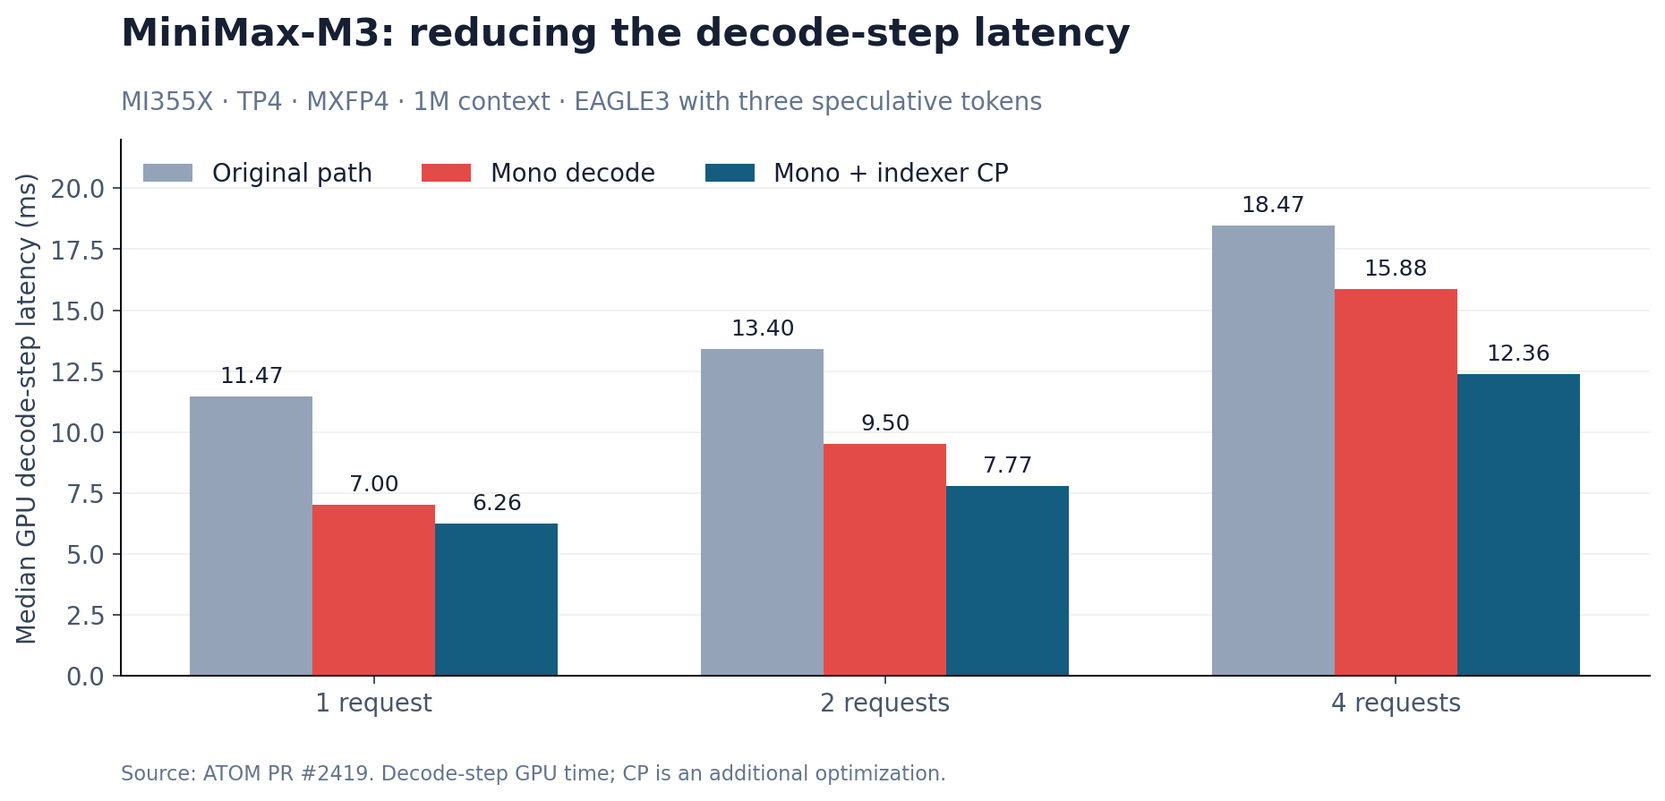
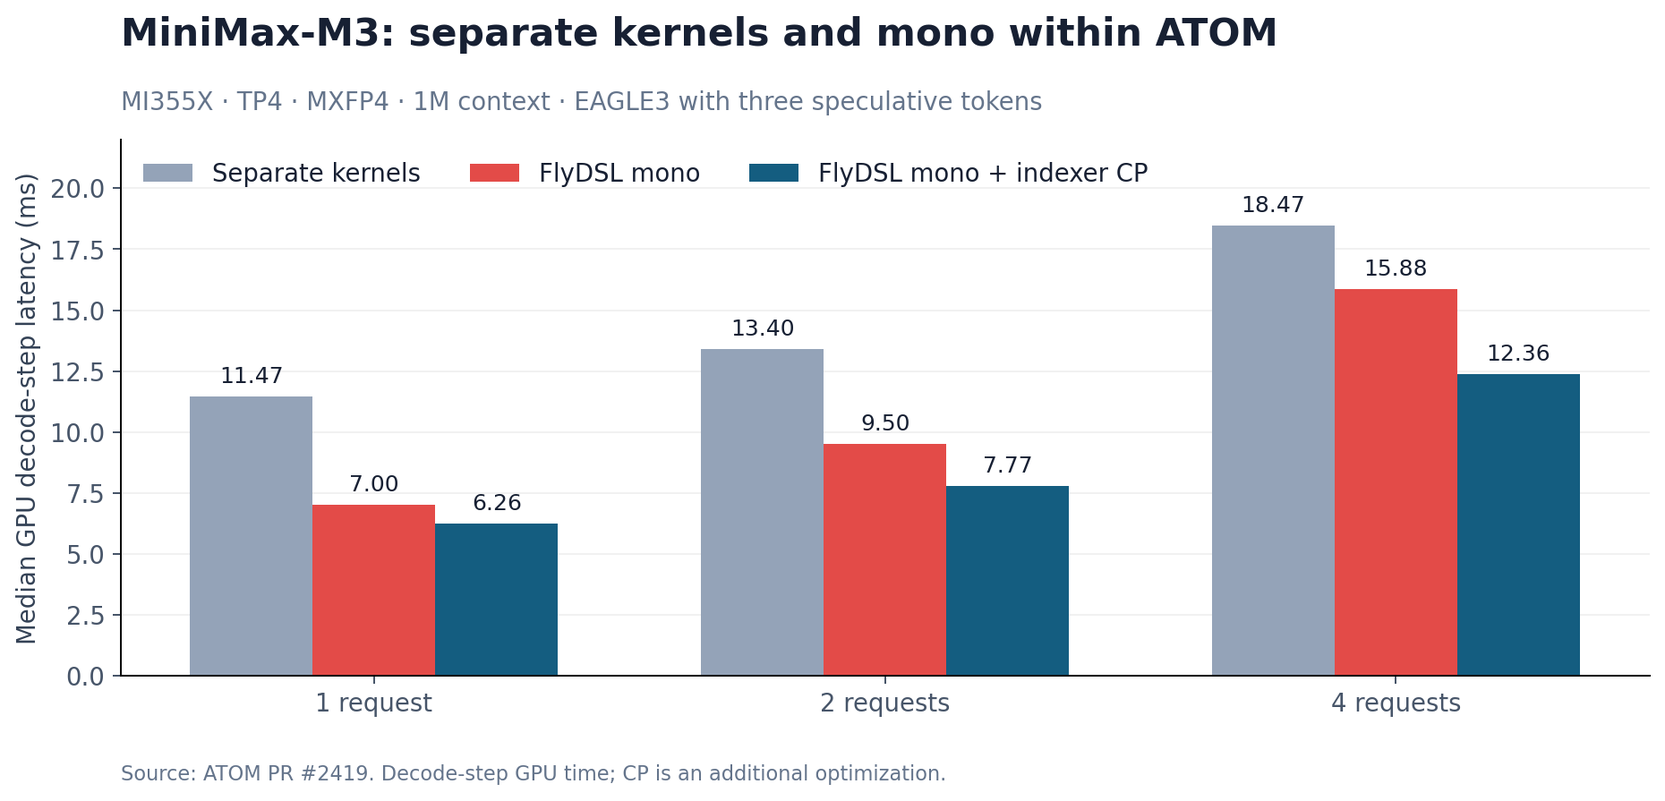
Focus ATOM mono blog on fusion and clarify separate-kernel baselines

Changed region(s): [[0.1247, 0.181, 0.686, 0.2413], [0.2495, 0.0, 0.7796, 0.0603]]

diff --git a/blogs/software-tools-optimization/flydsl-atom-mono-kernels/README.md b/blogs/software-tools-optimization/flydsl-atom-mono-kernels/README.md
@@ -7,7 +7,7 @@ thumbnail: 'mono-overlap.png'
 tags: AI/ML, Performance
 category: Software tools & optimizations
 target_audience: GPU kernel developers and LLM inference engineers
-key_value_propositions: Explains how mono kernels reduce launch overhead in low-concurrency decode, with M3 and DeepSeek-V4.1 examples, measured gains, and ATOM deployment steps.
+key_value_propositions: Explains how mono kernels reduce launch overhead in low-concurrency decode, with M3 and DeepSeek-V4.1 examples, measured gains, and ATOM integration.
 language: English
 myst:
     html_meta:
@@ -29,7 +29,7 @@ Interactive chat and coding assistants need to respond quickly even when only on
 
 At low concurrency, many of these kernels do only a small amount of work, but each still has to be launched and coordinated with the next one. Repeating that sequence across layers and decode steps can make kernel launch overhead a substantial part of latency. **A fast decode path needs to reduce the overhead between these small operations.**
 
-**A mono kernel puts a layer's connected operations into one GPU kernel launch.** It can also load weights before they are needed and combine GPU-to-GPU reductions with the computations around them. This article explains how [FlyDSL](https://github.com/ROCm/FlyDSL) and [ATOM](https://github.com/ROCm/ATOM) do this for MiniMax-M3 on AMD Instinct MI355X, how the approach extends to DeepSeek-V4.1, and what the measurements show.
+**A mono kernel puts a layer's connected operations into one GPU kernel launch.** It can also load weights before they are needed and combine GPU-to-GPU reductions with the computations around them. This article explains **[ATOM](https://github.com/ROCm/ATOM)'s mono-kernel path, implemented with [FlyDSL](https://github.com/ROCm/FlyDSL)**: how it fuses MiniMax-M3 decode on AMD Instinct MI355X, how the approach extends to DeepSeek-V4.1, and how it improves on ATOM's separate-kernel path.
 
 ## Why many small kernels slow down decode
 
@@ -57,13 +57,13 @@ There are three main benefits:
 
 *Figure 1. Mono combines stages in one launch, starts independent loads early, and overlaps reductions with computation. Bars show execution order, not measured durations.*
 
-**FlyDSL provides the tools to write this kernel; ATOM decides when and how to run it.** FlyDSL is a Python domain-specific language for GPU kernels. The Python code controls tensor layouts, matrix instructions, memory loads, and synchronization, and an MLIR compiler pipeline turns it into GPU code. ATOM (AiTer Optimized Model) loads the model, manages requests and caches, and selects the kernel variant for the current decode step. It also handles graph replay, speculative decoding, and execution across GPUs. [2], [4]
+**ATOM uses FlyDSL to implement its mono kernels.** FlyDSL is a Python domain-specific language for GPU kernels. The Python code controls tensor layouts, matrix instructions, memory loads, and synchronization, and an MLIR compiler pipeline turns it into GPU code. ATOM (AiTer Optimized Model) loads the model, manages requests and caches, and selects the kernel variant for the current decode step. It also handles graph replay, speculative decoding, and execution across GPUs. [2], [4]
 
 The design is inspired by the **TileRT MonoKernel work**. FlyDSL #1204 cites the TileRT InferenceMAX/InferenceX submission at [snapshot `8ac9834`](https://github.com/SemiAnalysisAI/InferenceX/tree/8ac98344b038a3f2da20a565fe9b974772a67ef9), associated with [#3389](https://github.com/SemiAnalysisAI/InferenceX/pull/3389). FlyDSL's [kernels/monokernel/](https://github.com/ROCm/FlyDSL/tree/31f389b3838d83f82e5bd9ccf646076243e24e18/kernels/monokernel) supplies reusable components such as gfx950 GEMM, MXFP8 linear, and tagged symmetric AllReduce. ATOM's shared `atom/mono` framework connects these components to each model. [5], [6], [10]
 
 ## MiniMax-M3: one launch for a sparse decoder layer
 
-M3's [mono kernel](https://github.com/ROCm/ATOM/blob/2b9f3412e466fd4172a4a621fe9215a1041130c1/atom/models/minimax_m3/mono/kernels/post_attn.py) covers the complete sparse-layer path, including attention and mixture-of-experts (MoE) AllReduce, in **one launch per tensor-parallel (TP) rank**, with one rank on each participating GPU. The first three dense layers use the original modules. The kernel specializes for 1–16 token rows; in the EAGLE3 configuration used here, three speculative tokens produce four target-model rows per request. [1], [3]
+M3's [mono kernel](https://github.com/ROCm/ATOM/blob/2b9f3412e466fd4172a4a621fe9215a1041130c1/atom/models/minimax_m3/mono/kernels/post_attn.py) covers the complete sparse-layer path, including attention and mixture-of-experts (MoE) AllReduce, in **one launch per tensor-parallel (TP) rank**, with one rank on each participating GPU. The first three dense layers use ATOM's separate-kernel modules. The kernel specializes for 1–16 token rows; in the EAGLE3 configuration used here, three speculative tokens produce four target-model rows per request. [1], [3]
 
 ### Which operations are fused?
 
@@ -85,7 +85,7 @@ All of these operations stay in the same launch. To make that useful, M3 needs t
 
 M3 launches **256 workgroups of 512 threads**, targeting one active workgroup per MI355X compute unit. Each block runs its assigned tasks in order. A block waiting for data can rely on the producing blocks remaining active. This avoids stopping the entire grid at every stage boundary, although threads within a workgroup still use local barriers. [3]
 
-Task `t` of a stage runs on block `(stage_base + t) % 256`. At four rows, split-attention tasks occupy blocks 0–31, merge tasks occupy 32–35, and output-projection tasks occupy 36–227. The router starts at block 228 and wraps to block 35. Blocks that performed attention can therefore take on routing work later in the same launch. [11]
+Blocks that perform attention can take on routing work later in the same launch. FlyDSL assigns those jobs before execution, so the same group of blocks carries the layer forward without a new launch for each stage. [11]
 
 **FlyDSL generates a kernel variant for each row count from 1 to 16.** Python code assigns tasks to blocks and lays out their LDS storage. At four rows, routed up/gate tasks are grouped by token so a block can reuse one staged activation. At wider shapes, tokens sharing an expert become matrix columns, reusing that expert's weights. The row count determines the layout before the kernel runs. Actual token positions and selected experts are supplied at runtime. [3], [11]
 
@@ -93,37 +93,13 @@ Task `t` of a stage runs on block `(stage_base + t) % 256`. At four rows, split-
 
 The weights for a later stage can be loaded before that stage receives its input. In the narrow MoE path, a block starts loading its down-projection weights while its up/gate computation runs. Shared-expert tasks are assigned according to each block's routed-work load; where that load is balanced, shared-expert computation runs while the first routed task's weights are in flight. [3], [11]
 
-FlyDSL also lets the layout change with the schedule. This excerpt from M3's `layout.py` selects the wider expert path and pads its activation and scale rows: [11]
-
-```python
-WIDE_FROM = 5
-
-def wide_moe(tokens: int) -> bool:
-    return tokens >= WIDE_FROM
-
-XN8_ROW = HIDDEN // 4 + 4
-XSC_ROW = HIDDEN // 32 + 4
-```
-
-At S=16, where S is the number of token rows, the unpadded pitches cause **16-way LDS bank conflicts costing about 3 µs per up/gate task**, according to the source comment. Adding four words, or 16 bytes, to each pitch spreads gathers across banks and removes that source of stalls. This is a small Python layout change that removes a measured stall in the fused expert computation. [11]
+FlyDSL also controls how activations and scales are laid out in LDS. At 16 token rows, the unpadded layout causes **16-way LDS bank conflicts costing about 3 µs per up/gate task**, according to the source comment. Adding 16 bytes of padding to each row spreads accesses across memory banks and removes that source of stalls. The [M3 layout code](https://github.com/ROCm/ATOM/blob/2b9f3412e466fd4172a4a621fe9215a1041130c1/atom/models/minimax_m3/mono/layout.py) makes this adjustment alongside the expert task assignments. [11]
 
 ### Tell each block when its input is ready
 
-After loading its weights, a block still needs the previous stage's output. M3 uses mailboxes in GPU memory: each payload word is paired with an epoch tag identifying the current step and layer. The block checks those tags until its input is ready. This is the poll loop from `common.py`, with only the docstring omitted: [7]
+After loading its weights, a block still needs the previous stage's output. M3 uses mailboxes in GPU memory: each value has a tag identifying its decode step and layer. A block waits until the tags show that its input is ready. Advancing the step counter prevents graph replay from mistaking an old result for a new one. Mailbox memory accesses make writes visible to the blocks or peer GPUs that need them. The [mailbox implementation](https://github.com/ROCm/ATOM/blob/2b9f3412e466fd4172a4a621fe9215a1041130c1/atom/models/minimax_m3/mono/kernels/common.py) supplies this synchronization inside the fused kernel. [3], [7]
 
-```python
-@traced
-def _spin(load_all, pending):
-    v = load_all()
-    while pending(v):
-        rocdl.s_sleep(1)
-        v = load_all()
-    return v
-```
-
-The epoch is `decode_step × 128 + layer_id + 1`. A device counter advances between steps, so graph replay cannot mistake an old result for a new one. Mailboxes within one GPU use device-scope memory accesses; mailboxes shared across GPUs use system-scope accesses. The scope determines where the writes must become visible. [3], [7]
-
-The mailbox layout also affects performance. M3 replicates the router's score mailbox eight ways, with block `b` polling copy `b % 8`. This spreads **240 expert blocks** across copies of a 1 KB payload. The source records **K4 on four GPUs improving from 37.3 to 35.9 µs** with the eight copies. [11] FlyDSL's wave operations, including `fx.rocdl.readlane`, `fx.rocdl.ballot`, `fx.ctpop`, and shared `permlane_swap` and `memrealtime` helpers, support the reductions, selection, and instrumentation around these handoffs. [1], [7]
+The mailbox layout also affects performance. M3 makes eight copies of the router's 1 KB score payload and spreads **240 expert blocks** across those copies. This reduces contention when many blocks wait for routing results at once. The source records **K4 on four GPUs improving from 37.3 to 35.9 µs** with the eight copies. [11]
 
 ### Combine AllReduce with the computations around it
 
@@ -183,13 +159,13 @@ In both models, an output can pass to its next computation inside the same kerne
 
 ### Scope and methodology
 
-The measurements below come from the linked implementation PRs. Each comparison retains its baseline and configuration. GPU decode-step time, layer-harness latency, and serving throughput measure different scopes; M3's headline combines mono and indexer CP. Kimi-K3 and GLM-5.2 results from the open ATOM PR #2435 remain **in progress**.[^benchmark-data]
+The serving comparisons measure **ATOM's separate-kernel path versus its FlyDSL mono-kernel path**. GLM-5 is measured separately in a layer harness against ATOM's separate-kernel implementation. GPU decode-step time, layer latency, and serving throughput measure different scopes; M3's 1.83× result combines mono and indexer CP. Kimi-K3 and GLM-5.2 results from the open ATOM PR #2435 remain **in progress**.[^benchmark-data]
 
 ### M3: decode latency with mono and indexer CP
 
-The server measurements use MI355X, TP4, MiniMax-M3-MXFP4, a 1M context, and EAGLE3 with three speculative tokens. Batches of 1, 2, and 4 produce 4, 8, and 16 target-model rows before graph padding. Latencies are median GPU decode-step times in milliseconds; gains list mono / mono + CP speedups relative to the original path. [1]
+The server measurements use MI355X, TP4, MiniMax-M3-MXFP4, a 1M context, and EAGLE3 with three speculative tokens. Batches of 1, 2, and 4 produce 4, 8, and 16 target-model rows before graph padding. Latencies are median GPU decode-step times in milliseconds; gains list mono / mono + CP speedups relative to ATOM's separate-kernel path. In the table, **Separate** is ATOM with separate kernels and **Mono** is ATOM with FlyDSL mono kernels. [1]
 
-| Batch | Original | Mono | Mono + CP | Gain |
+| Batch | Separate | Mono | Mono + CP | Gain |
 | ---: | ---: | ---: | ---: | ---: |
 | 1 | 11.47 | 7.00 | 6.26 | 1.64× / 1.83× |
 | 2 | 13.40 | 9.50 | 7.77 | 1.41× / 1.72× |
@@ -197,7 +173,7 @@ The server measurements use MI355X, TP4, MiniMax-M3-MXFP4, a 1M context, and EAG
 
 ![MiniMax-M3 decode-step latency comparison](images/minimax-decode-step.png)
 
-*Figure 5. M3 decode-step latency; lower is better. The [decode-step CSV](data/minimax-decode-step.csv) retains the reported values.*
+*Figure 5. M3 decode-step latency within ATOM: separate kernels, FlyDSL mono kernels, and mono with indexer CP. Lower is better. The [decode-step CSV](data/minimax-decode-step.csv) retains the reported values.*
 
 At batch one, mono saves **4.47 ms** and CP saves a further **0.74 ms**. At batch four, mono saves **2.59 ms** and CP saves another **3.52 ms**. With more rows, each launch processes more useful work, so its overhead is spread across that work. This is consistent with the smaller mono speedup at batch four. Weight loads, expert computation, and index scoring then account for more of the work; grouping tokens by expert and splitting the index scan across GPUs target those costs.
 
@@ -205,14 +181,12 @@ The CP layer harness isolates the indexer change: at 1M context, 16 rows, and fo
 
 ### One-launch layer results: GLM-5
 
-[GLM-5's full-indexer mono kernel](https://github.com/ROCm/FlyDSL/blob/31f389b3838d83f82e5bd9ccf646076243e24e18/kernels/monokernel/glm/kernel.py) provides another complete-layer example: indexer, sparse MLA, router, MXFP4 MoE, TP reductions, and residual update in **one launch per rank**. FlyDSL #1204 reports the following on MI355X TP8 at position 3000, against ATOM latest: [5]
+[GLM-5's full-indexer mono kernel](https://github.com/ROCm/FlyDSL/blob/31f389b3838d83f82e5bd9ccf646076243e24e18/kernels/monokernel/glm/kernel.py) provides another complete-layer example: indexer, sparse MLA, router, MXFP4 MoE, TP reductions, and residual update in **one launch per rank**. FlyDSL #1204 reports the following on MI355X TP8 at position 3000, using ATOM's separate-kernel layer implementation as the baseline: [5]
 
-| Token rows | Mono launches per layer and rank | Layer latency, ATOM → mono (µs) | Speedup |
+| Token rows | Mono launches per layer and rank | Layer latency, separate → mono (µs) | Speedup |
 | ---: | ---: | ---: | ---: |
 | 4 | **1** | 205.8–213.7 → **78.4–78.6** | **2.62–2.73×** |
 | 8 | **1** | 223.4 → **118.2–118.3** | **1.89×** |
-
-These measurements cover a full layer with arithmetic and reductions fused into one launch. FlyDSL also improves staged execution: the same PR's Kimi-K3 MLA and KDA paths are **1.55–1.99× faster than ATOM** across S=4/8, including ordered true-MTP KDA updates. Its staged true-MTP KDA path outperforms its one-launch version, so the best set of operations to fuse depends on the model. [5]
 
 ### Results across models
 
@@ -220,10 +194,10 @@ The reported improvements extend to several models, with different groups of ope
 
 | Model and mono path | Comparison and configuration | Reported benefit |
 | --- | --- | --- |
-| **MiniMax-M3**: fused sparse layer | Original path → mono; MI355X, TP4, MXFP4, 1M context, batch 1, EAGLE3 with three speculative tokens | **1.64× faster GPU decode step**, or **1.83× with indexer CP**. [1] |
-| **Kimi-K3**: fused MoE tail | Reference → mono; MI355X, TP8, concurrency 1, `DCP1`, DSpark7, graph mode | Output throughput **169.15 → 197.92 tokens/s (+17.01%)**; time per output token (TPOT) **5.55–5.60 → 4.70 ms**. [8] |
-| **GLM-5.2**: decoder-layer mono | Production → mono; MI355X, TP4, MXFP4, FP8 KV, MTP4, graph mode | At concurrency 1, Agentic throughput **+15.92%**, TPOT **6.897 → 5.380 ms**. At concurrency 2, throughput **+16.8%**, TPOT **26.2% lower**. [8] |
-| **GLM-5**: full-indexer mono | ATOM latest → FlyDSL mono; MI355X, TP8, position 3000, S=4/8; **layer harness** | **2.62–2.73× faster at S=4**; **1.89× at S=8**. [5] |
+| **MiniMax-M3**: fused sparse layer | ATOM: separate kernels → mono (FlyDSL); MI355X, TP4, MXFP4, 1M context, batch 1, EAGLE3 with three speculative tokens | **1.64× faster GPU decode step**, or **1.83× with indexer CP**. [1] |
+| **Kimi-K3**: fused MoE tail | ATOM: separate kernels (reference) → mono (FlyDSL); MI355X, TP8, concurrency 1, `DCP1`, DSpark7, graph mode | Output throughput **169.15 → 197.92 tokens/s (+17.01%)**; time per output token (TPOT) **5.55–5.60 → 4.70 ms**. [8] |
+| **GLM-5.2**: decoder-layer mono | ATOM: separate kernels (production) → mono (FlyDSL); MI355X, TP4, MXFP4, FP8 KV, MTP4, graph mode | At concurrency 1, Agentic throughput **+15.92%**, TPOT **6.897 → 5.380 ms**. At concurrency 2, throughput **+16.8%**, TPOT **26.2% lower**. [8] |
+| **GLM-5**: full-indexer mono | ATOM separate kernels → FlyDSL mono layer harness; MI355X, TP8, position 3000, S=4/8; **layer harness** | **2.62–2.73× faster at S=4**; **1.89× at S=8**. [5] |
 
 **DeepSeek-V4.1-Flash also benefits from further work inside mono.** Its updated TP4 implementation reduces decode-step time by **4% / 10% / 11% / 12%** at batches 1/2/4/8, with bit-identical outputs, relative to its previous mono schedule. Those incremental gains come from the token-parallel sublayers and earlier independent loads described above. [9]
 
@@ -231,72 +205,19 @@ The reported improvements extend to several models, with different groups of ope
 
 M3's #2419 checks report **bit-identical index selection** over 3K–1.04M contexts, **bit-identical outputs through 16 chained layers with CP off versus on** at the tested 3K, 37K, and 200K contexts, and a successfully served **1,040,186-token request**. Selection coverage includes mixed lengths across the CP threshold and speculative row counts. These checks cover cache access and intermediate results affected by the fused implementation. [1]
 
-*Quality note: M3's GSM8K five-shot scores are 0.9447 for the original path, 0.9371/0.9424 for mono, and 0.9378 for mono plus CP. The two mono runs span 0.53 percentage points; the 0.69-point difference between the original path and mono plus CP is of similar magnitude. PR #2435 reports Kimi-K3 mono/reference scores of 0.959060/0.959818 and GLM-5.2 mono/main scores of 0.9606/0.9674, a 0.68-point difference for GLM. [1], [8]*
+*Quality note: M3's GSM8K five-shot scores are 0.9447 for ATOM's separate-kernel path, 0.9371/0.9424 for mono, and 0.9378 for mono plus CP. The two mono runs span 0.53 percentage points; the 0.69-point difference between the separate-kernel path and mono plus CP is of similar magnitude. PR #2435 reports Kimi-K3 mono/separate-kernel scores of 0.959060/0.959818 and GLM-5.2 mono/separate-kernel scores of 0.9606/0.9674, a 0.68-point difference for GLM. [1], [8]*
 
-## Run and inspect mono in ATOM
+## How ATOM integrates the FlyDSL mono kernels
 
-For each decode step, ATOM selects the kernel variant for its row count and provides the cache metadata. It prepares buffers and peer connections before graph capture, and TP ranks agree on whether to use mono. Steps outside the supported conditions automatically use the existing model path. [3]
+For each decode step, ATOM selects the FlyDSL kernel variant for its row count and provides the cache metadata. It prepares buffers and peer connections before graph capture, and TP ranks agree on whether to use mono. Steps outside the supported conditions automatically use ATOM's separate-kernel path. Speculative verification preserves EAGLE3's auxiliary hidden states and prevents an earlier speculative row from reading a later token. [3]
 
-Speculative verification also stays consistent with the original request: for a request with `Q` query tokens, row `j` sees `seq_len - (Q - 1 - j)` keys. Earlier speculative rows cannot read later tokens, and the runner preserves EAGLE3's auxiliary hidden states. [3]
+M3's mono dispatch defaults on. The [stock M3 recipe](https://github.com/ROCm/ATOM/blob/2b9f3412e466fd4172a4a621fe9215a1041130c1/recipes/MiniMax-M3.md) enables the shared index cache, which disables mono; using mono requires `use_index_cache: false`. At #2419, the supported configuration is TP4, DP=PP=1, FP8 KV and index caches, 128-token cache blocks, a maximum context of 1,048,576 tokens, a non-piecewise graph mode or eager execution, TBO disabled, and no vLLM/SGLang plugin mode. Eligible steps contain 1–16 token rows including graph padding and matching cache metadata. [3], [12], [13]
 
-### Enable the supported M3 path
-
-**`ATOM_MONO_ENABLE=1` is the default**, but the stock M3 recipe linked below enables the shared index cache with `use_index_cache: true`, which disables mono. **Set `use_index_cache: false`** so each sparse layer computes its own selection, as in this article's command. [3], [12], [13]
-
-At #2419, deployment requires **TP4, DP=PP=1, FP8 KV and index caches, 128-token cache blocks, and `--max-model-len` at most 1,048,576**, with a non-piecewise graph mode (or eager execution), TBO disabled, and no vLLM/SGLang plugin mode. Eligible decode steps contain **1–16 token rows including graph padding** and matching cache metadata. [3]
-
-Start from the [ATOM installation environment](https://github.com/ROCm/ATOM#installation) with **four MI355X GPUs**, the MXFP4 target, and its EAGLE3 draft checkpoint. This launch adapts the pinned M3 recipe, enables mono, and opts into indexer CP: [13]
-
-```bash
-export ATOM_MONO_ENABLE=1
-export ATOM_M3_INDEXER_CP=1
-export ATOM_FORCE_ATTN_TRITON=1
-export AITER_QUICK_REDUCE_QUANTIZATION=INT4
-export AITER_QUICK_REDUCE_CAST_BF16_TO_FP16=0
-
-python -m atom.entrypoints.openai_server \
-  --model amd/MiniMax-M3-MXFP4 \
-  --tensor-parallel-size 4 \
-  --host 127.0.0.1 --server-port 8000 \
-  --trust-remote-code \
-  --kv_cache_dtype fp8 --index_cache_dtype fp8 \
-  --block-size 128 --max-model-len 1048576 \
-  --max-num-seqs 4 --max-num-batched-tokens 32768 \
-  --attn-prefill-chunk-size 16384 \
-  --gpu-memory-utilization 0.90 \
-  --cudagraph-mode FULL \
-  --hf-overrides '{"use_index_cache": false}' \
-  --online_quant_config '{
-    "global_quant_config": "ptpc_fp8",
-    "exclude_layer": [
-      "lm_head", "model.embed_tokens", "vision_tower",
-      "multi_modal_projector", "patch_merge_mlp", "*block_sparse_moe"
-    ]
-  }' \
-  --method eagle3 \
-  --draft-model Inferact/MiniMax-M3-EAGLE3 \
-  --num-speculative-tokens 3
-```
-
-The runner logs `MiniMax-M3 mono decode on` at its first eligible step; a deployment refusal logs `MiniMax-M3 mono decode off` with its reason. The maximum context setting enables long requests, and CP begins work when a request passes its threshold.
-
-For a local comparison, keep checkpoints, requests, graph configuration, and speculative settings fixed. Restart with `(ATOM_MONO_ENABLE, ATOM_M3_INDEXER_CP)` set to **`(0, 0)`**, **`(1, 0)`**, and **`(1, 1)`**. Use ATOM's [serving benchmark](https://github.com/ROCm/ATOM/blob/2b9f3412e466fd4172a4a621fe9215a1041130c1/recipes/MiniMax-M3.md#serving-benchmark) with identical long-context requests and warmup, and disable debug tools during timing.
-
-### Inspect work inside the fused launch
-
-ATOM provides three M3 tools to inspect what happens inside the fused kernel: [12]
-
-| Setting | What it exposes |
-| --- | --- |
-| `ATOM_MONO_CHECK=1` | Per-layer differences against the original modules. |
-| `ATOM_MONO_TRACE` | Step inputs, positions, and top logits; set to a JSONL output path. |
-| `ATOM_MONO_TIMELINE` | Per-phase timestamps for every sparse layer and workgroup; set to an output prefix. Files are saved by rank and row count. |
-
-Use these with `--enforce-eager` as documented in the pinned implementation. The timeline captures a small number of steps after warmup, helping locate a stalled handoff or imbalanced stage inside the fused program.
+ATOM also makes the fused kernel observable: per-layer checks compare its output with the separate-kernel modules, traces record step inputs and outputs, and timelines show work inside each layer. These [debug tools](https://github.com/ROCm/ATOM/blob/2b9f3412e466fd4172a4a621fe9215a1041130c1/atom/utils/envs.py) help inspect the fused path during development. [12]
 
 ## Takeaways
 
-Low-concurrency decode repeats many small operations, making launch and synchronization overhead worth reducing. Mono combines connected operations in one launch, loads weights early, and runs reductions alongside the computations that use them. FlyDSL lets developers write and tune these kernels, while ATOM selects and runs them for supported requests.
+Low-concurrency decode repeats many small operations, making launch and synchronization overhead worth reducing. Mono combines connected operations in one launch, loads weights early, and runs reductions alongside the computations that use them. ATOM's FlyDSL mono kernels apply these optimizations within the serving engine, with the separate-kernel path available for steps outside the supported conditions.
 
 > - **Run connected stages in one launch.** M3 fuses a sparse layer; V4.1 fuses attention and experts inside K2.
 > - **Use waiting time for useful work.** Load weights before their inputs arrive and overlap reductions with computation.
